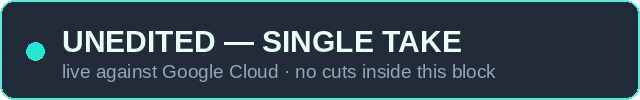
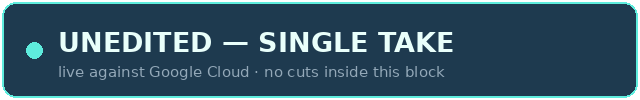
fix(grabacion): el runbook mandaba cortar las esperas, y eso rompe 'unedited'
La v3 afirmaba que no habia regla sobre cortes. La hay, y no en el reglamento sino en la
rubrica: Demo & Production Readiness (30%) pregunta si el video ensena una ejecucion en
vivo SIN EDITAR. El runbook decia 'corta toda espera, corte de salto y sigue' — un corte
de salto es un corte, y habria costado el criterio que mas pesa.

Lo permitido, segun la respuesta del organizador en el foro: acelerar el bloque ENTERO de
forma uniforme, sin cortes ni empalmes, y avisarlo en pantalla. De ahi el segundo rotulo:
usar el de 1x sobre metraje acelerado seria afirmar algo falso justo encima de la unica
parte del video cuyo valor es que se puede creer.

Los rotulos ya no son un PNG huerfano: tienen generador versionado.

Claude-Session: https://claude.ai/code/session_01Adjgsd6F8n8EyAgaKZ5oZC

Changed region(s): [[0.0, 0.0, 1.0, 1.0], [0.0938, 0.63, 0.7812, 0.81], [0.375, 0.3, 0.7188, 0.54]]

diff --git a/assets/slides/generar_rotulos.py b/assets/slides/generar_rotulos.py
@@ -1,0 +1,59 @@
+#!/usr/bin/env python3
+"""Los rótulos que van superpuestos sobre la demostración, y por qué son dos.
+
+POR QUÉ EXISTE ESTE ARCHIVO. El rótulo original se hizo a mano y su generador no quedó en el
+repositorio: cuando hubo que cambiar el texto, no había de dónde partir. Ahora sí.
+
+POR QUÉ SON DOS Y NO UNO, que es lo que de verdad importa. Las reglas del concurso puntúan
+«unedited, live execution». Preguntado en el foro si se puede acelerar la grabación entera para
+no pasarse de cuatro minutos, el organizador respondió que **una aceleración uniforme de una
+ejecución real —sin cortes, sin empalmes, sin añadir ni quitar nada— se interpreta normalmente
+como «sin editar», pero recortar o unir clips no**; y recomendó dejar la ejecución continua y
+**avisar en pantalla si se aceleró**.
+
+De ahí salen los dos rótulos:
+
+  · `rotulo_toma_unica.png`           — para la toma que va a 1×, tal como se grabó.
+  · `rotulo_toma_unica_acelerado.png` — para la toma acelerada uniformemente, que DICE que lo está.
+
+Usar el primero sobre metraje acelerado sería afirmar algo que no es cierto sobre la única parte
+del vídeo cuyo valor entero es que se puede creer. Es el error más caro posible aquí.
+
+    python3 assets/slides/generar_rotulos.py [velocidad]     # velocidad: 2 por defecto
+"""
+import sys
+from pathlib import Path
+
+from PIL import Image, ImageDraw, ImageFont
+
+AQUI = Path(__file__).resolve().parent
+ANCHO, ALTO = 640, 100
+FONDO = (11, 41, 64, 235)        # Deep Harbor, casi opaco
+BORDE = (39, 230, 210, 190)      # Electric Cyan
+TITULO = (233, 255, 251, 255)    # Ice
+PIE = (147, 168, 184, 255)       # Slate
+
+NEGRITA = "/usr/share/fonts/dejavu-sans-fonts/DejaVuSans-Bold.ttf"
+NORMAL = "/usr/share/fonts/dejavu-sans-fonts/DejaVuSans.ttf"
+
+
+def rotulo(destino: Path, titulo: str, pie: str) -> None:
+    im = Image.new("RGBA", (ANCHO, ALTO), (0, 0, 0, 0))
+    d = ImageDraw.Draw(im)
+    d.rounded_rectangle([2, 2, ANCHO - 3, ALTO - 3], radius=14, fill=FONDO, outline=BORDE, width=2)
+    # El punto de grabación: lo mismo que enseña cualquier cámara, y se lee sin idioma.
+    d.ellipse([26, 42, 42, 58], fill=BORDE)
+    d.text((58, 26), titulo, font=ImageFont.truetype(NEGRITA, 27), fill=TITULO)
+    d.text((58, 63), pie, font=ImageFont.truetype(NORMAL, 15), fill=PIE)
+    im.save(destino)
+    print(f"  {destino.name}  ({ANCHO}×{ALTO})  «{titulo}» · «{pie}»")
+
+
+if __name__ == "__main__":
+    v = sys.argv[1] if len(sys.argv) > 1 else "2"
+    rotulo(AQUI / "rotulo_toma_unica.png",
+           "UNEDITED — SINGLE TAKE",
+           "live against Google Cloud · no cuts inside this block")
+    rotulo(AQUI / "rotulo_toma_unica_acelerado.png",
+           "UNEDITED — SINGLE TAKE",
+           f"live against Google Cloud · no cuts · uniform {v}x playback")

diff --git a/RUNBOOK_GRABACION.md b/RUNBOOK_GRABACION.md
@@ -1,17 +1,25 @@
 # RUNBOOK DE GRABACIÓN — CLEVERIA · v3
 
-**Fecha:** 2026-08-30 · **Versión:** 3.0 · **Cierre:** 31-ago 17:00 hora del Pacífico
+**Fecha:** 2026-08-30 · **Versión:** 4.0 · **Cierre:** 31-ago 17:00 hora del Pacífico
+*(v4: la regla de edición corregida contra la rúbrica, OBS montado, la toma 3 paso a paso)*
 
 > **La v2 decía que había tres planes de grabación incompatibles. Ya no**, y por una razón mejor
 > que la que teníamos.
 >
-> **Leído el 2026-08-30 en la página oficial de novedades: no existe ninguna regla sobre toma
-> única, cortes ni edición.** Las únicas exigencias del vídeo son cuatro minutos como máximo,
-> público en YouTube o Vimeo, en inglés, y que se vea el backend corriendo en Google Cloud.
-> **La toma única era una restricción que nos pusimos solos.**
+> **Corregido el 2026-08-30, leyendo la rúbrica y no solo el reglamento.** La v3 decía que «no
+> existe ninguna regla sobre cortes ni edición». Es falso, y era un error caro: el 30 % de la
+> nota lo decide *Demo & Production Readiness*, cuyo primer criterio pregunta literalmente
+> «*Does the video show an **unedited, live execution** of the agent?*».
 >
-> Se mantiene igualmente para la demostración, pero ya no como obligación: como **argumento**. Y
-> el resto del vídeo usa escenas, fundidos, títulos e imágenes sin ninguna culpa.
+> Las exigencias formales siguen siendo cuatro: **4 minutos como máximo**, **público** en YouTube
+> o Vimeo (*unlisted* no vale), **en inglés o con subtítulos en inglés**, y que **se vea el
+> backend corriendo en Google Cloud**. Pero encima de ellas está la rúbrica, y ahí «sin editar»
+> puntúa.
+>
+> **La toma única deja de ser una manía nuestra y pasa a ser la respuesta al criterio que más
+> pesa.** El envoltorio —apertura, títulos, arquitectura, cierre— sí usa escenas y fundidos sin
+> ninguna culpa: la exigencia recae sobre **la demostración**, no sobre el vídeo entero. Qué se
+> puede hacer con las esperas está en la **§5.1**, con la respuesta literal del organizador.
 >
 > ### Y un aviso de los organizadores que cambia las prioridades
 >
@@ -191,9 +199,46 @@ bash demo.sh 3
 
 - **Los primeros 10 segundos deciden si te siguen viendo.** Van directos a la cola trabajando.
   Sin logotipo antes, sin título antes.
-- **Corta toda espera.** Donde el sondeo tarde, corte de salto y sigue.
+- **NO cortes las esperas de la demostración.** Acelera el bloque entero, uniformemente, y
+  rotúlalo. El porqué está en la §5.1, y es lo que separa una entrega puntuada de una descartada.
 - **Subtítulos en inglés siempre**, aunque se narre en inglés: muchos jurados ven sin sonido.
 - **Ningún panel de identidad de la nube con nombres propios.**
+
+### 5.1 Qué se puede hacer con las esperas, y qué no
+
+> **Corregido el 2026-08-30. Hasta hoy este runbook decía «corta toda espera, corte de salto y
+> sigue». Eso está prohibido**, y el error habría costado el 30 % de la nota.
+
+Las bases puntúan «*Does the video show an **unedited, live execution** of the agent performing
+its task?*». Preguntado en el foro si se puede acelerar la grabación para no pasar de cuatro
+minutos, el organizador contestó — respuesta de *Shawni Dev*, manager, aportada por el operador:
+
+> «Una aceleración uniforme de una ejecución real (**sin cortes, empalmes, ni añadidos ni
+> eliminados**) generalmente se interpreta como “sin editar”, pero **editar, recortar o unir
+> clips en exceso no lo haría**. Para mayor seguridad, mantén la ejecución continua y **añade una
+> nota en pantalla si la has acelerado**.»
+
+| Con las esperas | ¿Permitido? | Qué hacer |
+|---|---|---|
+| Dejarlas a 1× | **Sí**, es lo más seguro | rótulo `rotulo_toma_unica.png` |
+| **Acelerar el bloque entero, uniforme** | **Sí**, con aviso en pantalla | rótulo `rotulo_toma_unica_acelerado.png` |
+| Corte de salto para saltarse el sondeo | **NO** | es un corte: rompe «unedited» |
+| Unir dos intentos de la misma toma | **NO** | es un empalme |
+| Acelerar solo la parte aburrida | **NO** | no es uniforme |
+
+**Cómo acelerar sin equivocarse** — un solo comando sobre el bloque entero, nunca sobre un trozo:
+
+```bash
+ffmpeg -i toma3.mkv -filter:v "setpts=PTS/2" -filter:a "atempo=2.0" toma3_2x.mkv
+```
+
+Y el rótulo tiene que decirlo. **Usar el rótulo de 1× sobre metraje acelerado sería afirmar algo
+falso justo encima de la única parte del vídeo cuyo valor entero es que se puede creer.** Los dos
+rótulos se regeneran con `python3 assets/slides/generar_rotulos.py <velocidad>`.
+
+**Repite también el aviso en la descripción del vídeo**, que es lo que el organizador pidió «para
+mayor seguridad»: *“The demo block is a single continuous run, played back at a uniform 2×. No
+cuts, no splices, nothing added or removed.”*
 
 ---
 
@@ -243,5 +288,8 @@ mientras se enseña — no la lista de servicios.
 - [ ] Está en inglés o lleva subtítulos en inglés
 - [ ] Se ve el backend corriendo en Google Cloud
 - [ ] No aparece ningún correo, ruta personal ni nombre de cliente
-- [ ] El rótulo `unedited — single take` está sobre la demostración
-- [ ] Público en YouTube o Vimeo
+- [ ] El rótulo está sobre la demostración, **y es el que corresponde a la velocidad usada**
+- [ ] **Dentro de la demostración no hay ni un corte ni un empalme** (§5.1)
+- [ ] Si se aceleró: el aviso está en pantalla **y** en la descripción del vídeo
+- [ ] **Público** en YouTube o Vimeo — *unlisted* no cuenta y descarta la bonificación
+- [ ] La descripción explica la fricción y nombra la arquitectura
